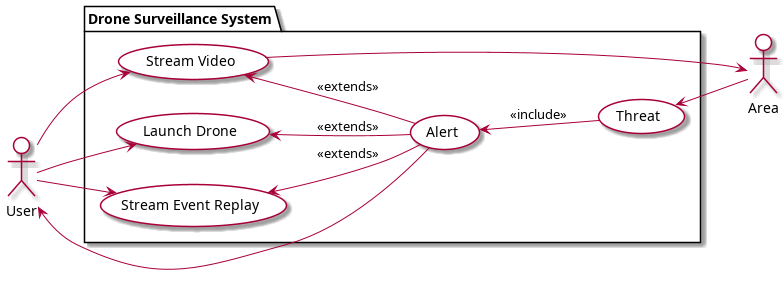
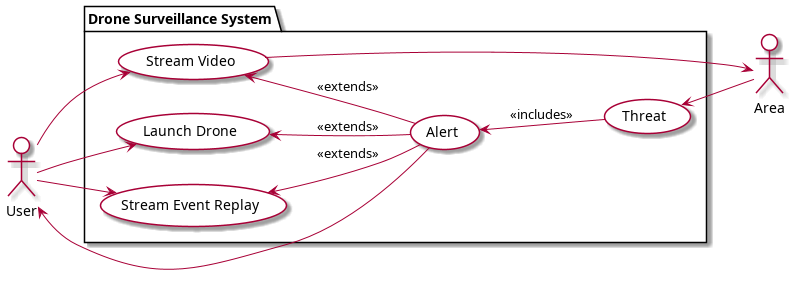
Update diagrams

diff --git a/diagrams/README.md b/diagrams/README.md
@@ -1,0 +1,5 @@
+# Diagrams
+
+In here you can find all the diagrams of the systems design.
+
+Note: When updating the diagrams please update the exports too.
